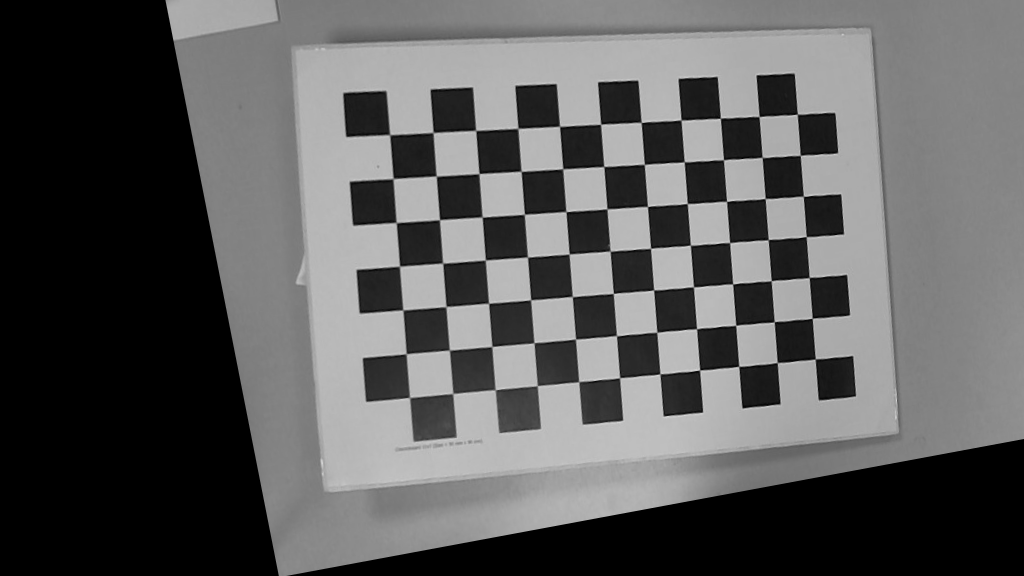
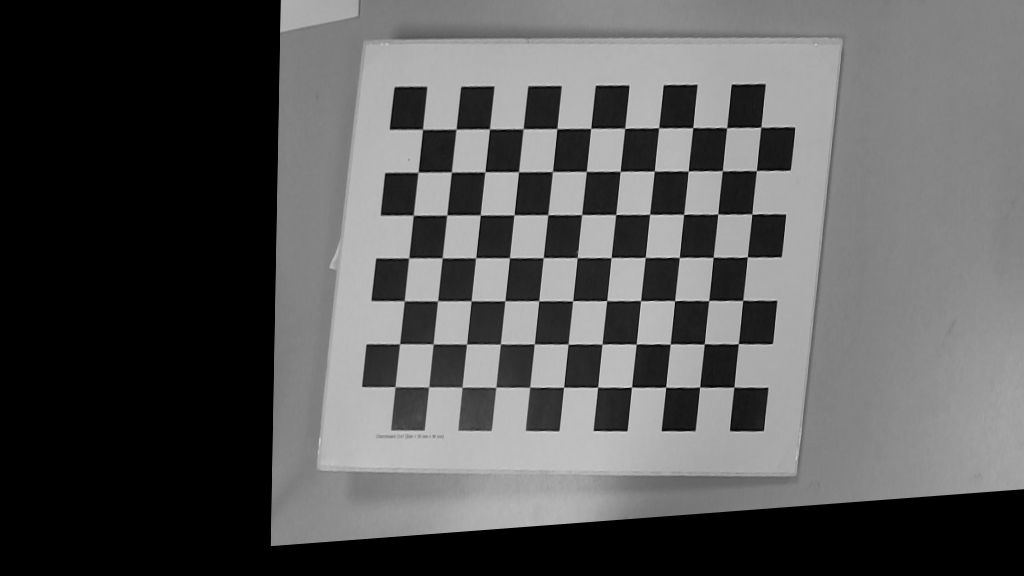
fix 6 task

diff --git a/lab-6/main.py b/lab-6/main.py
@@ -93,7 +93,7 @@ def fundamental_matrix_method(imgL, imgR):
     kp2, des2 = sift.detectAndCompute(imgR, None)  # Находим ключевые точки и их описатели на правом изображении
 
     bf = cv2.BFMatcher()  # Создаем объект BFMatcher для сопоставления описателей
-    matches = bf.knnMatch(des1, des2, k=2)  # Находим две лучших соответствия для каждой точки
+    matches = bf.knnMatch(des1, des2, k=2)  # Находим два лучших соответствия для каждой точки
 
     # Отфильтровываем плохие соответствия, используя правило Лоу (Low's ratio test)
     good_matches = [m for m, n in matches if m.distance < 0.7 * n.distance]
@@ -115,12 +115,15 @@ def fundamental_matrix_method(imgL, imgR):
         print("Ошибка: не удалось вычислить фундаментальную матрицу.")
         return None, None
 
-    # Вычисляем гомографию между точками
-    H, _ = cv2.findHomography(src_pts, dst_pts, cv2.RANSAC)
+     # Вычисляем гомографии для ректификации с помощью фундаментальной матрицы
+    h1, w1 = imgL.shape[:2]
+    h2, w2 = imgR.shape[:2]
 
-    # Применяем гомографию к левому изображению
-    rectified_imgL = cv2.warpPerspective(imgL, H, (imgL.shape[1], imgL.shape[0]))
-    rectified_imgR = imgR  # Правое изображение остается без изменений
+    _, H1, H2 = cv2.stereoRectifyUncalibrated(src_pts, dst_pts, F, imgSize=(w1, h1))
+
+    # Применяем гомографии к изображениям
+    rectified_imgL = cv2.warpPerspective(imgL, H1, (w1, h1))
+    rectified_imgR = cv2.warpPerspective(imgR, H2, (w2, h2))
 
     return rectified_imgL, rectified_imgR  # Возвращаем откалиброванные изображения
 
@@ -128,10 +131,11 @@ def fundamental_matrix_method(imgL, imgR):
 # Функция отображения всех изображений в одном окне
 def show_results(imgL, imgR, rectifiedL, rectifiedR):
     # Изменяем размер изображений для удобства просмотра
-    imgL_resized = cv2.resize(imgL, (640, 360))
-    imgR_resized = cv2.resize(imgR, (640, 360))
-    rectifiedL_resized = cv2.resize(rectifiedL, (640, 360))
-    rectifiedR_resized = cv2.resize(rectifiedR, (640, 360))
+    imgL_resized = cv2.resize(imgL, (400, 400))
+    imgR_resized = cv2.resize(imgR, (400, 400))
+    rectifiedL_resized = cv2.resize(rectifiedL, (400, 400))
+    rectifiedR_resized = cv2.resize(rectifiedR, (400, 400))
+    
 
     # Объединяем изображения горизонтально
     top_row = np.hstack((imgL_resized, imgR_resized))

diff --git a/lab-5/main.py b/lab-5/main.py
@@ -1,8 +1,7 @@
 import cv2
 import numpy as np
 
-# Загрузка видео или подключение к камере
-video_input = cv2.VideoCapture('video.mp4')  # Для видеофайла
+video_input = cv2.VideoCapture('video.mp4') 
 
 # Список для хранения точек, которые нужно отслеживать
 selected_points = []
